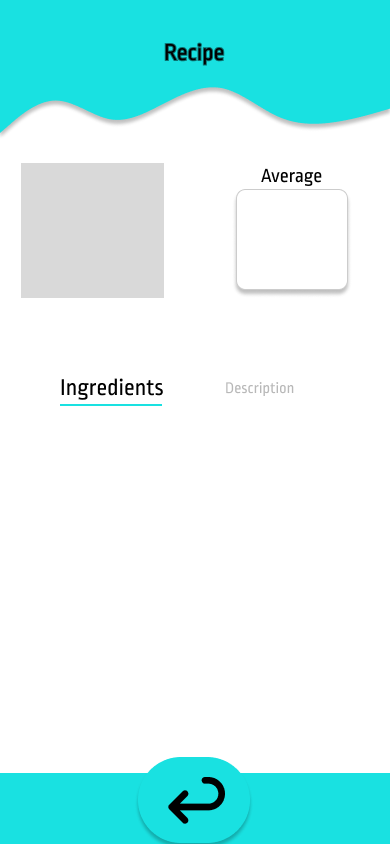
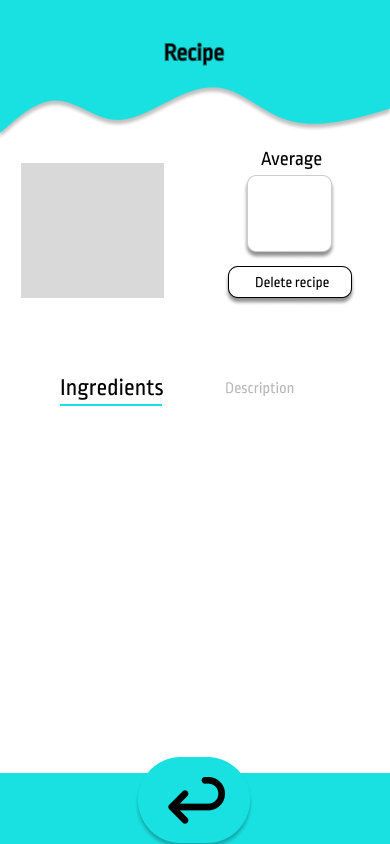
caso d'uso:dlete recipe

Changed region(s): [[0.5846, 0.2156, 0.9231, 0.3697], [0.6462, 0.1848, 0.8308, 0.2156]]

diff --git a/src/main/java/com/example/foodo/engineering/dao/RecipeDAO.java b/src/main/java/com/example/foodo/engineering/dao/RecipeDAO.java
@@ -3,17 +3,11 @@ package com.example.foodo.engineering.dao;
 
 import com.example.foodo.engineering.connection.ConnectionDB;
 import com.example.foodo.engineering.exception.ConnectionDbException;
-import com.example.foodo.model.ProductModel;
-import com.example.foodo.model.RecipeItemModel;
 import com.example.foodo.model.RecipeModel;
 import com.example.foodo.engineering.dao.queries.BasicQueries;
 
 
-import javax.swing.plaf.nimbus.State;
-import javax.xml.transform.Result;
-import java.io.FileInputStream;
 import java.io.FileNotFoundException;
-import java.io.InputStream;
 import java.sql.*;
 import java.util.ArrayList;
 import java.util.List;
@@ -81,7 +75,7 @@ public class RecipeDAO {
 
         try{
             stmt = ConnectionDB.getConnection();
-            ResultSet resultSet = BasicQueries.retriverRecipeId(stmt, rname);
+            ResultSet resultSet = BasicQueries.retriveRecipeId2(stmt, rname);
             resultSet.first();
             int id = resultSet.getInt("recipeId");
             ResultSet resultSet1 = BasicQueries.searchDescription(stmt, id);
@@ -99,7 +93,7 @@ public class RecipeDAO {
         PreparedStatement preparedStatement;
         try{
             stmt = ConnectionDB.getConnection();
-            ResultSet resultSet = BasicQueries.retriverRecipeId(stmt, name);
+            ResultSet resultSet = BasicQueries.retriveRecipeId2(stmt, name);
             resultSet.first();
             int id = resultSet.getInt("recipeId");
             preparedStatement = ConnectionDB.setReview();
@@ -117,7 +111,7 @@ public class RecipeDAO {
 
         try{
             stmt = ConnectionDB.getConnection();
-            ResultSet resultSet = BasicQueries.retriverRecipeId(stmt, rname);
+            ResultSet resultSet = BasicQueries.retriveRecipeId2(stmt, rname);
             resultSet.first();
             int id = resultSet.getInt("recipeId");
             ResultSet resultSet1 = BasicQueries.retrieveImg(stmt, id);
@@ -137,7 +131,7 @@ public class RecipeDAO {
         int rate=0;
         try{
             stmt = ConnectionDB.getConnection();
-            ResultSet resultSet = BasicQueries.retriverRecipeId(stmt, rname);
+            ResultSet resultSet = BasicQueries.retriveRecipeId2(stmt, rname);
             resultSet.first();
             int id= resultSet.getInt("recipeId");
             ResultSet resultSet1= BasicQueries.getReview(stmt, id);
@@ -153,5 +147,22 @@ public class RecipeDAO {
             e.printStackTrace();
         }
         return average;
+    }
+
+    public void deleteRecipe(String recipeName, String chefName) {
+        Statement stmt;
+        int id;
+
+        try {
+            stmt = ConnectionDB.getConnection();
+            ResultSet resultSet= BasicQueries.retriveRecipeId2(stmt, recipeName);
+            resultSet.first();
+            id=resultSet.getInt(1);
+            BasicQueries.deleteIngredients(stmt, id);
+            BasicQueries.deleteReview(stmt, id);
+            BasicQueries.deleteRecipe(stmt, id);
+        }catch( SQLException | ConnectionDbException e){
+                e.printStackTrace();
+        }
     }
 }

diff --git a/src/main/java/com/example/foodo/engineering/dao/queries/BasicQueries.java b/src/main/java/com/example/foodo/engineering/dao/queries/BasicQueries.java
@@ -109,7 +109,7 @@ public class BasicQueries {
         return stmt.executeQuery(sql);
     }
 
-    public static ResultSet retriverRecipeId(Statement stmt, String rname) throws SQLException {
+    public static ResultSet retriveRecipeId2(Statement stmt, String rname) throws SQLException {
 
         String sql= "SELECT recipeId FROM recipes WHERE recipeName='" + rname + "' ;";
         return stmt.executeQuery(sql);
@@ -147,6 +147,23 @@ public class BasicQueries {
     }
     public static void updateChefImage(Statement stmt, String path, String name) throws SQLException {
         String sql="UPDATE chef_table SET path='" + path + "' WHERE username='" + name + "';";
+        stmt.executeUpdate(sql);
+
+    }
+
+    public static void deleteIngredients(Statement stmt, int id) throws SQLException{
+        String sql="DELETE FROM ingredients WHERE recipeId ='" + id+"';";
+        stmt.executeUpdate(sql);
+    }
+
+    public static void deleteRecipe(Statement stmt, int id) throws SQLException {
+        String sql="DELETE FROM recipes WHERE recipeId ='" + id+"';";
+        stmt.executeUpdate(sql);
+
+    }
+
+    public static void deleteReview(Statement stmt, int id) throws SQLException {
+        String sql="DELETE FROM review WHERE recipeId1 ='" + id+"';";
         stmt.executeUpdate(sql);
 
     }

diff --git a/src/main/java/com/example/foodo/engineering/dao/ProductDAO.java b/src/main/java/com/example/foodo/engineering/dao/ProductDAO.java
@@ -8,7 +8,6 @@ import com.example.foodo.model.ProductModel;
 import javafx.collections.FXCollections;
 import javafx.collections.ObservableList;
 
-import javax.swing.plaf.nimbus.State;
 import java.sql.PreparedStatement;
 import java.sql.ResultSet;
 import java.sql.SQLException;
@@ -94,7 +93,7 @@ public class   ProductDAO {
         List<ProductModel> productModelList = new ArrayList<>();
         stmt = ConnectionDB.getConnection();
 
-        ResultSet resultSet = BasicQueries.retriverRecipeId(stmt, rname);
+        ResultSet resultSet = BasicQueries.retriveRecipeId2(stmt, rname);
         resultSet.next();
         resultSet.first();
         Integer id = resultSet.getInt("recipeId");

diff --git a/src/main/java/com/example/foodo/graphic/guiclass/RecipeDet1ChefControllerGUI.java b/src/main/java/com/example/foodo/graphic/guiclass/RecipeDet1ChefControllerGUI.java
@@ -98,4 +98,16 @@ public class RecipeDet1ChefControllerGUI {
         setAverage(rname, chefName);
 
     }
+
+    public void DeleteRecipe(ActionEvent event) throws IOException {
+        RecipeDetController recipeDetController=new RecipeDetController();
+        recipeDetController.deleteRecipe(name, chefName);
+        FXMLLoader fxmlLoader = new FXMLLoader(Main.class.getResource("/guiclass/myRecipes.fxml"));
+        Parent root = fxmlLoader.load();
+        scene = new Scene(root);
+        stage = (Stage)((Node)event.getSource()).getScene().getWindow();
+        stage.setScene(scene);
+        stage.show();
+
+    }
 }

diff --git a/src/main/java/com/example/foodo/controllerappl/RecipeDetController.java b/src/main/java/com/example/foodo/controllerappl/RecipeDetController.java
@@ -61,4 +61,9 @@ public class RecipeDetController {
         return String.valueOf(recipeDAO.setAverage(rname, chefName));
 
     }
+
+    public void deleteRecipe(String recipeName, String chefName) {
+        RecipeDAO recipeDAO= new RecipeDAO();
+        recipeDAO.deleteRecipe(recipeName, chefName);
+    }
 }
